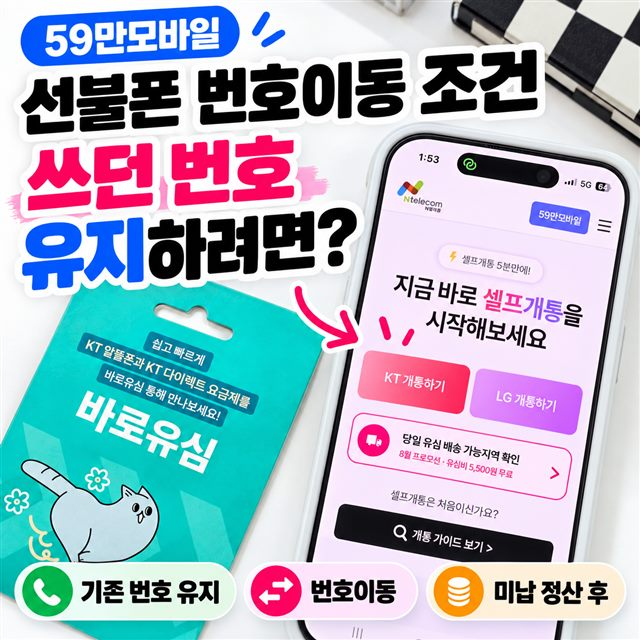
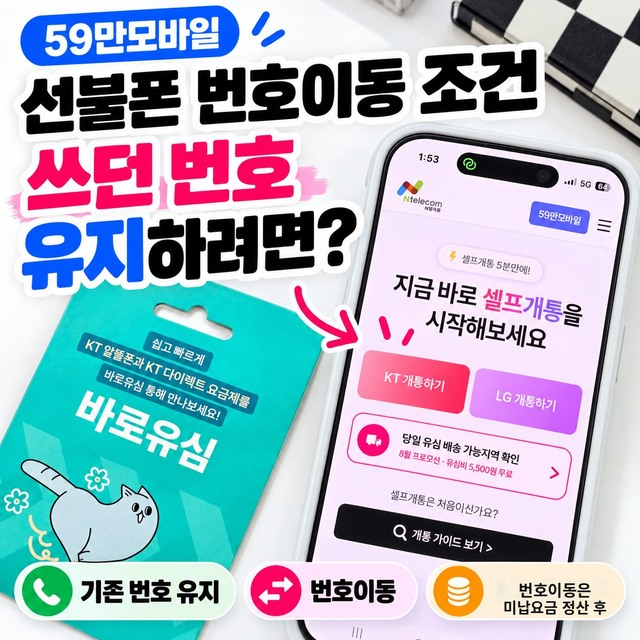
Stage 3: clarify number transfer arrears label in cover 11
* Prepare precise image 11 text replacement

* Stage 3: clarify number transfer arrears condition on cover 11

* Clarify full number-transfer arrears condition in cover alt text

---------

diff --git a/알뜰폰-셀프개통-번호이동/index.html b/알뜰폰-셀프개통-번호이동/index.html
@@ -1,1 +1,1 @@
-<!doctype html><html lang="ko"><head><meta charset="utf-8"><meta name="viewport" content="width=device-width,initial-scale=1"><title>선불폰 번호이동 | 59만모바일</title><meta name="description" content="선불에서 선불로 번호이동은 현재 회선이 정상이고 미납이나 정지 상태가 아닐 때 진행합니다. 번호이동은 월~토 10:00~19:50에 개통할 수 있습니다."><meta name="robots" content="index,follow"><link rel="canonical" href="https://www.59man.shop/알뜰폰-셀프개통-번호이동/"><link rel="icon" href="/favicon.ico" sizes="any"><link rel="icon" type="image/png" sizes="48x48" href="/favicon-48.png"><link rel="icon" type="image/png" sizes="192x192" href="/favicon-192.png"><link rel="apple-touch-icon" href="/apple-touch-icon.png"><meta property="og:type" content="article"><meta property="og:site_name" content="59만모바일"><meta property="og:locale" content="ko_KR"><meta property="og:title" content="선불폰 번호이동"><meta property="og:description" content="선불에서 선불로 번호이동은 현재 회선이 정상이고 미납이나 정지 상태가 아닐 때 진행합니다. 번호이동은 월~토 10:00~19:50에 개통할 수 있습니다."><meta property="og:url" content="https://www.59man.shop/알뜰폰-셀프개통-번호이동/"><meta property="og:image" content="https://www.59man.shop/img/cover-11-number-port-og.jpg"><meta property="og:image:type" content="image/jpeg"><meta property="og:image:width" content="1254"><meta property="og:image:height" content="1254"><meta property="og:image:alt" content="59만모바일 페이지별 대표이미지"><meta name="twitter:card" content="summary"><meta name="twitter:title" content="선불폰 번호이동"><meta name="twitter:description" content="선불에서 선불로 번호이동은 현재 회선이 정상이고 미납이나 정지 상태가 아닐 때 진행합니다. 번호이동은 월~토 10:00~19:50에 개통할 수 있습니다."><meta name="twitter:image" content="https://www.59man.shop/img/cover-11-number-port-og.jpg"><script type="application/ld+json">{"@context":"https://schema.org","@type":"BreadcrumbList","itemListElement":[{"@type":"ListItem","position":1,"name":"홈","item":"https://www.59man.shop/"},{"@type":"ListItem","position":2,"name":"미납·정지 안내","item":"https://www.59man.shop/알뜰폰-셀프개통-번호이동/"}]}</script><link rel="stylesheet" href="/assets/hub.css?v=20261027-readability1"></head><body><a class="skip-link" href="#main-content">본문 바로가기</a><header class="top"><div class="site top-in"><a class="brand" href="/"><img class="brand-mascot" src="/img/icons/brand-mark.svg" width="36" height="36" alt=""><span>59만모바일</span><span class="brand-caption">앤텔레콤 정보 가이드</span></a><nav class="desktop-nav" aria-label="주 메뉴"><a href="/">홈</a><a href="/guide/" aria-current="page">가이드</a><a href="/v4-1/topic/plan-compare/">요금제</a><a href="/편의점-선불유심/">유심 안내</a><a class="nav-apply" href="https://preplan.site/?from=59man_menu">개통 시작하기 <svg viewBox="0 0 24 24" width="18" height="18" fill="none" stroke="currentColor" stroke-width="1.8" aria-hidden="true"><path d="m9 5 7 7-7 7"/></svg></a></nav><details class="top-menu"><summary aria-label="메뉴 열기"><span class="ico-open"><svg viewBox="0 0 24 24" width="24" height="24" fill="none" stroke="currentColor" stroke-width="2" stroke-linecap="round" aria-hidden="true"><path d="M4 7h16M4 12h16M4 17h16"/></svg></span><span class="ico-close"><svg viewBox="0 0 24 24" width="24" height="24" fill="none" stroke="currentColor" stroke-width="2" stroke-linecap="round" aria-hidden="true"><path d="M6 6l12 12M18 6L6 18"/></svg></span></summary><div class="top-menu-panel"><a href="/">홈</a><a href="/guide/">가이드</a><a href="/v4-1/topic/plan-compare/">요금제</a><a href="/편의점-선불유심/">유심 안내</a><a class="menu-cta" href="https://preplan.site/?from=59man_menu">개통 시작하기</a><a class="menu-chat" href="https://pf.kakao.com/_akxmKn/chat" rel="noopener">카카오톡 상담</a></div></details></div></header><main id="main-content" class="site content detail-content"><nav class="gc-tiles detail-categories" aria-label="상황별 가이드"><a class="gc-tile" href="/guide/"><span class="gc-ic"><img src="/img/icons/guides-all.svg" width="32" height="32" alt="" aria-hidden="true"></span><b>전체보기</b><small>26개 가이드</small></a><a class="gc-tile" href="/guide/#check"><span class="gc-ic"><img src="/img/icons/guides-check.svg" width="32" height="32" alt="" aria-hidden="true"></span><b>개통 전 확인</b><small>4개 가이드</small></a><a class="gc-tile" href="/guide/#sim"><span class="gc-ic"><img src="/img/icons/guides-sim.svg" width="32" height="32" alt="" aria-hidden="true"></span><b>유심 준비</b><small>6개 가이드</small></a><a class="gc-tile" href="/guide/#self"><span class="gc-ic"><img src="/img/icons/guides-self.svg" width="32" height="32" alt="" aria-hidden="true"></span><b>셀프개통</b><small>6개 가이드</small></a><a class="gc-tile" href="/guide/#esim"><span class="gc-ic"><img src="/img/icons/guides-esim.svg" width="32" height="32" alt="" aria-hidden="true"></span><b>eSIM</b><small>1개 가이드</small></a><a class="gc-tile is-active" href="/guide/#move"><span class="gc-ic"><img src="/img/icons/guides-move.svg" width="32" height="32" alt="" aria-hidden="true"></span><b>번호이동·미납</b><small>2개 가이드</small></a><a class="gc-tile" href="/guide/#plan"><span class="gc-ic"><img src="/img/icons/guides-plan.svg" width="32" height="32" alt="" aria-hidden="true"></span><b>요금제·충전</b><small>5개 가이드</small></a><a class="gc-tile" href="/guide/#fix"><span class="gc-ic"><img src="/img/icons/guides-fix.svg" width="32" height="32" alt="" aria-hidden="true"></span><b>문제 해결</b><small>2개 가이드</small></a></nav><div class="detail-workspace"><aside class="guide-context" aria-label="같은 주제 가이드"><a class="context-back" href="/guide/#move"><span aria-hidden="true">←</span> 번호이동·미납 목록</a><div class="context-list"><div class="context-heading"><img src="/img/icons/guides-move.svg" width="32" height="32" alt="" aria-hidden="true"><h2>번호이동·미납</h2><span>2개 가이드</span></div><a class="context-card is-selected" href="/알뜰폰-셀프개통-번호이동/" aria-current="page"><span class="context-number">01</span><span><small>번호이동·미납</small><b>선불폰 번호이동</b><span class="context-desc">지금 쓰는 번호를 그대로 옮기려면 어떤 조건이 필요한가요?</span></span><svg viewBox="0 0 24 24" width="18" height="18" fill="none" stroke="currentColor" stroke-width="1.8" aria-hidden="true"><path d="m9 5 7 7-7 7"/></svg></a><a class="context-card" href="/미납정지-선불폰/"><span class="context-number">02</span><span><small>번호이동·미납</small><b>미납·정지 선불폰 개통·번호이동</b><span class="context-desc">미납·연체·정지 상태에서는 어떤 개통 방법이 가능한가요?</span></span><svg viewBox="0 0 24 24" width="18" height="18" fill="none" stroke="currentColor" stroke-width="1.8" aria-hidden="true"><path d="m9 5 7 7-7 7"/></svg></a><a class="context-all" href="/guide/">모든 가이드 찾아보기 <svg viewBox="0 0 24 24" width="18" height="18" fill="none" stroke="currentColor" stroke-width="1.8" aria-hidden="true"><path d="m9 5 7 7-7 7"/></svg></a></div><div class="context-help"><span class="section-kicker">도움이 필요하신가요?</span><b>어느 단계에서 막히셨나요?</b><p>화면을 보내 주시면 확인을 도와드려요.</p><a href="https://pf.kakao.com/_akxmKn/chat" rel="noopener">카카오톡 상담 <svg viewBox="0 0 24 24" width="18" height="18" fill="none" stroke="currentColor" stroke-width="1.8" aria-hidden="true"><path d="m9 5 7 7-7 7"/></svg></a></div></aside><article class="article detail-article"><nav class="crumb-bar" aria-label="경로"><div class="detail-heading-inner"><p class="crumb"><a href="/">홈</a><span class="crumb-sep" aria-hidden="true">›</span><a href="/guide/">가이드</a><span class="crumb-sep" aria-hidden="true">›</span><a href="/guide/#move">번호이동·미납</a><span class="crumb-sep" aria-hidden="true">›</span><span class="crumb-now" aria-current="page">선불폰 번호이동</span></p></div></nav><section class="hero hero-problem"><div class="detail-heading-inner"><div class="eyebrow">미납·정지 안내</div><h1>선불폰 번호이동</h1><p>선불폰 번호이동 안내</p><a class="hero-cta" href="https://preplan.site/">개통 시작하기 <span>→</span></a></div></section><figure class="detail-lead-visual representative-visual" aria-label="선불폰 번호이동 대표이미지"><img src="/img/cover-11-number-port-mobile.jpg" width="640" height="640" alt="선불폰 번호이동 대표이미지" loading="eager" decoding="async"></figure><section><h2>번호이동은 어떤 경우에 되나요?</h2><p>선불에서 선불로 번호이동은 현재 회선이 정상이고 미납이나 정지 상태가 아닐 때 진행합니다.</p></section><section><h2>먼저 현재 회선 상태를 확인해요</h2><p>선불폰 번호이동은 기존 번호를 그대로 가져오는 방법이라 현재 회선 상태부터 확인해야 합니다. 이 조건이 맞다면 번호이동 시간과 유심 또는 단말 준비를 확인하세요.</p><figure class="sm-editorial-figure "><img src="/img/editorial/new-vs-transfer.svg" alt="신규가입은 추가 회선, 번호이동은 기존 번호를 유지하면서 통신망 변경" loading="lazy" decoding="async"><figcaption>59만모바일 제작 · 신규가입과 번호이동의 차이</figcaption></figure></section><section><h2>번호이동 시간은 이래요</h2><p>번호이동은 월~토 10:00~19:50에 개통할 수 있으며, 일요일과 공휴일에는 진행하지 않습니다. 신청을 시작하는 시간을 확인하세요.</p></section><section><h2>번호이동이 안 되는 경우</h2><p>일반 휴대폰이 미납·연체 또는 정지 상태라면 기존 번호를 번호이동으로 가져올 수 없습니다.</p></section><section><h2>번호이동이 안 되면 새 번호로 진행해요</h2><p>통신요금 미납 상태여도 새 번호 신규가입은 진행할 수 있습니다. 기존 번호를 옮길 수 없는 상태라면 번호이동을 반복해서 시도하지 말고 새 번호 신규가입이 가능한지 따로 확인하세요.</p></section><section><h2>조건이 맞는다면 번호이동을 신청해요</h2><p>현재 회선이 정상이고 시간 조건이 맞을 때만 번호이동 신청을 진행하세요.</p></section><section class="decision-card"><span class="section-kicker">먼저 확인할 점</span><h2>현재 상태에 따라 개통 방법이 달라요</h2><div><b>기존 번호 유지 여부</b><span>→</span><b>가능한 신규가입 방법</b><span>→</span><b>유심과 인증 준비</b></div></section><section class="activation-flow" aria-labelledby="activation-flow-title"><div class="section-kicker">셀프개통 순서</div><h2 id="activation-flow-title">준비했다면 5단계로 시작하세요</h2><div class="steps"><div class="step step-link"><b>01</b><div><strong>59만모바일 개통 페이지 접속</strong><p>사용할 망을 고른 뒤 번호이동을 선택합니다. 기존 회선 상태와 접수 가능 시간을 먼저 확인하세요.</p><a href="https://preplan.site/">59만모바일 개통 페이지 접속 →</a></div></div><div class="step"><b>02</b><div><strong>안면 인증 및 본인 인증</strong><p>카카오·토스·PASS 등 간편인증과 안면인증을 진행합니다. 실제 사용할 본인 명의여야 합니다.</p></div></div><div class="step"><b>03</b><div><strong>USIM 정보 입력</strong><p><span class="network-chip">K망</span> 유심카드 19자리 번호 입력 &nbsp; <span class="network-chip lg">L망</span> 모델코드 5자리 + 일련번호 8자리 입력</p></div></div><div class="step"><b>04</b><div><strong>요금제와 기존 번호 확인</strong><p>요금제를 선택하고 기존 번호와 번호이동 사전동의 절차를 확인합니다. 새 번호를 고르는 단계가 아닙니다.</p></div></div><div class="step"><b>05</b><div><strong>개통 완료 → 요금 충전 → 사용 시작</strong><p>플랫폼에서 개통 완료를 확인한 뒤 요금을 충전하세요. 실물 유심은 장착·재부팅 후 통화·문자·데이터를 확인하고, 본사 1899-7700 해피콜은 이후에 받으세요. 태블릿 앱 개통의 담당자 승인 방식과는 다릅니다.</p></div></div></div><a class="primary-cta" href="https://preplan.site/">59만모바일 개통 시작하기 <span>→</span></a></section><nav class="related" aria-label="관련 안내"><h2 class="related-title">함께 보면 좋은 글</h2><a href="/미납정지-선불폰/">미납·정지 선불폰 개통·번호이동</a><a href="/v4-1/topic/plan-compare/">선불폰 요금제 비교</a><a href="/v4-1/topic/plan-396/">앤텔레콤 396 요금제 K망·L망</a><a href="/앤텔레콤-선불폰-개통-방법/">앤텔레콤 셀프개통 방법</a><a href="/앤텔레콤-웹개통/">앤텔레콤 개통시간</a></nav></article></div></main><footer class="footer"><div class="site footer-grid"><div class="footer-brand"><a href="/"><img src="/img/icons/guides-sim.svg" width="32" height="32" alt="" aria-hidden="true"><b>59만모바일</b></a><span>앤텔레콤 정보 가이드</span></div><div class="footer-info"><h2 class="footer-info-title">사업자 · 연락처</h2><p>59만모바일 · 준비할 내용을 확인한 뒤 개통을 시작하세요.</p><p>개통은 <a href="https://preplan.site/">59만모바일 개통 페이지</a>에서 진행됩니다.</p><p>상호 59만모바일 · 대표자 주영돈 · 사업자등록번호 774-56-00506</p><p>주소 (46220) 부산광역시 금정구 금강로 670</p><p>전화 <a href="tel:+821073058253">010-7305-8253</a> · <a href="https://pf.kakao.com/_akxmKn/chat" rel="noopener">카카오톡 상담</a></p></div></div></footer><nav class="bottom-bar" aria-label="빠른 개통"><a class="bottom-bar-main" href="https://preplan.site/">개통 시작하기</a><a class="bottom-bar-sub" href="https://pf.kakao.com/_akxmKn/chat" rel="noopener">카톡 상담</a></nav><script src="/assets/site.js?v=20261027-simplify1" defer></script></body></html>
+<!doctype html><html lang="ko"><head><meta charset="utf-8"><meta name="viewport" content="width=device-width,initial-scale=1"><title>선불폰 번호이동 | 59만모바일</title><meta name="description" content="선불에서 선불로 번호이동은 현재 회선이 정상이고 미납이나 정지 상태가 아닐 때 진행합니다. 번호이동은 월~토 10:00~19:50에 개통할 수 있습니다."><meta name="robots" content="index,follow"><link rel="canonical" href="https://www.59man.shop/알뜰폰-셀프개통-번호이동/"><link rel="icon" href="/favicon.ico" sizes="any"><link rel="icon" type="image/png" sizes="48x48" href="/favicon-48.png"><link rel="icon" type="image/png" sizes="192x192" href="/favicon-192.png"><link rel="apple-touch-icon" href="/apple-touch-icon.png"><meta property="og:type" content="article"><meta property="og:site_name" content="59만모바일"><meta property="og:locale" content="ko_KR"><meta property="og:title" content="선불폰 번호이동"><meta property="og:description" content="선불에서 선불로 번호이동은 현재 회선이 정상이고 미납이나 정지 상태가 아닐 때 진행합니다. 번호이동은 월~토 10:00~19:50에 개통할 수 있습니다."><meta property="og:url" content="https://www.59man.shop/알뜰폰-셀프개통-번호이동/"><meta property="og:image" content="https://www.59man.shop/img/cover-11-number-port-og.jpg"><meta property="og:image:type" content="image/jpeg"><meta property="og:image:width" content="1254"><meta property="og:image:height" content="1254"><meta property="og:image:alt" content="59만모바일 페이지별 대표이미지"><meta name="twitter:card" content="summary"><meta name="twitter:title" content="선불폰 번호이동"><meta name="twitter:description" content="선불에서 선불로 번호이동은 현재 회선이 정상이고 미납이나 정지 상태가 아닐 때 진행합니다. 번호이동은 월~토 10:00~19:50에 개통할 수 있습니다."><meta name="twitter:image" content="https://www.59man.shop/img/cover-11-number-port-og.jpg"><script type="application/ld+json">{"@context":"https://schema.org","@type":"BreadcrumbList","itemListElement":[{"@type":"ListItem","position":1,"name":"홈","item":"https://www.59man.shop/"},{"@type":"ListItem","position":2,"name":"미납·정지 안내","item":"https://www.59man.shop/알뜰폰-셀프개통-번호이동/"}]}</script><link rel="stylesheet" href="/assets/hub.css?v=20261027-readability1"></head><body><a class="skip-link" href="#main-content">본문 바로가기</a><header class="top"><div class="site top-in"><a class="brand" href="/"><img class="brand-mascot" src="/img/icons/brand-mark.svg" width="36" height="36" alt=""><span>59만모바일</span><span class="brand-caption">앤텔레콤 정보 가이드</span></a><nav class="desktop-nav" aria-label="주 메뉴"><a href="/">홈</a><a href="/guide/" aria-current="page">가이드</a><a href="/v4-1/topic/plan-compare/">요금제</a><a href="/편의점-선불유심/">유심 안내</a><a class="nav-apply" href="https://preplan.site/?from=59man_menu">개통 시작하기 <svg viewBox="0 0 24 24" width="18" height="18" fill="none" stroke="currentColor" stroke-width="1.8" aria-hidden="true"><path d="m9 5 7 7-7 7"/></svg></a></nav><details class="top-menu"><summary aria-label="메뉴 열기"><span class="ico-open"><svg viewBox="0 0 24 24" width="24" height="24" fill="none" stroke="currentColor" stroke-width="2" stroke-linecap="round" aria-hidden="true"><path d="M4 7h16M4 12h16M4 17h16"/></svg></span><span class="ico-close"><svg viewBox="0 0 24 24" width="24" height="24" fill="none" stroke="currentColor" stroke-width="2" stroke-linecap="round" aria-hidden="true"><path d="M6 6l12 12M18 6L6 18"/></svg></span></summary><div class="top-menu-panel"><a href="/">홈</a><a href="/guide/">가이드</a><a href="/v4-1/topic/plan-compare/">요금제</a><a href="/편의점-선불유심/">유심 안내</a><a class="menu-cta" href="https://preplan.site/?from=59man_menu">개통 시작하기</a><a class="menu-chat" href="https://pf.kakao.com/_akxmKn/chat" rel="noopener">카카오톡 상담</a></div></details></div></header><main id="main-content" class="site content detail-content"><nav class="gc-tiles detail-categories" aria-label="상황별 가이드"><a class="gc-tile" href="/guide/"><span class="gc-ic"><img src="/img/icons/guides-all.svg" width="32" height="32" alt="" aria-hidden="true"></span><b>전체보기</b><small>26개 가이드</small></a><a class="gc-tile" href="/guide/#check"><span class="gc-ic"><img src="/img/icons/guides-check.svg" width="32" height="32" alt="" aria-hidden="true"></span><b>개통 전 확인</b><small>4개 가이드</small></a><a class="gc-tile" href="/guide/#sim"><span class="gc-ic"><img src="/img/icons/guides-sim.svg" width="32" height="32" alt="" aria-hidden="true"></span><b>유심 준비</b><small>6개 가이드</small></a><a class="gc-tile" href="/guide/#self"><span class="gc-ic"><img src="/img/icons/guides-self.svg" width="32" height="32" alt="" aria-hidden="true"></span><b>셀프개통</b><small>6개 가이드</small></a><a class="gc-tile" href="/guide/#esim"><span class="gc-ic"><img src="/img/icons/guides-esim.svg" width="32" height="32" alt="" aria-hidden="true"></span><b>eSIM</b><small>1개 가이드</small></a><a class="gc-tile is-active" href="/guide/#move"><span class="gc-ic"><img src="/img/icons/guides-move.svg" width="32" height="32" alt="" aria-hidden="true"></span><b>번호이동·미납</b><small>2개 가이드</small></a><a class="gc-tile" href="/guide/#plan"><span class="gc-ic"><img src="/img/icons/guides-plan.svg" width="32" height="32" alt="" aria-hidden="true"></span><b>요금제·충전</b><small>5개 가이드</small></a><a class="gc-tile" href="/guide/#fix"><span class="gc-ic"><img src="/img/icons/guides-fix.svg" width="32" height="32" alt="" aria-hidden="true"></span><b>문제 해결</b><small>2개 가이드</small></a></nav><div class="detail-workspace"><aside class="guide-context" aria-label="같은 주제 가이드"><a class="context-back" href="/guide/#move"><span aria-hidden="true">←</span> 번호이동·미납 목록</a><div class="context-list"><div class="context-heading"><img src="/img/icons/guides-move.svg" width="32" height="32" alt="" aria-hidden="true"><h2>번호이동·미납</h2><span>2개 가이드</span></div><a class="context-card is-selected" href="/알뜰폰-셀프개통-번호이동/" aria-current="page"><span class="context-number">01</span><span><small>번호이동·미납</small><b>선불폰 번호이동</b><span class="context-desc">지금 쓰는 번호를 그대로 옮기려면 어떤 조건이 필요한가요?</span></span><svg viewBox="0 0 24 24" width="18" height="18" fill="none" stroke="currentColor" stroke-width="1.8" aria-hidden="true"><path d="m9 5 7 7-7 7"/></svg></a><a class="context-card" href="/미납정지-선불폰/"><span class="context-number">02</span><span><small>번호이동·미납</small><b>미납·정지 선불폰 개통·번호이동</b><span class="context-desc">미납·연체·정지 상태에서는 어떤 개통 방법이 가능한가요?</span></span><svg viewBox="0 0 24 24" width="18" height="18" fill="none" stroke="currentColor" stroke-width="1.8" aria-hidden="true"><path d="m9 5 7 7-7 7"/></svg></a><a class="context-all" href="/guide/">모든 가이드 찾아보기 <svg viewBox="0 0 24 24" width="18" height="18" fill="none" stroke="currentColor" stroke-width="1.8" aria-hidden="true"><path d="m9 5 7 7-7 7"/></svg></a></div><div class="context-help"><span class="section-kicker">도움이 필요하신가요?</span><b>어느 단계에서 막히셨나요?</b><p>화면을 보내 주시면 확인을 도와드려요.</p><a href="https://pf.kakao.com/_akxmKn/chat" rel="noopener">카카오톡 상담 <svg viewBox="0 0 24 24" width="18" height="18" fill="none" stroke="currentColor" stroke-width="1.8" aria-hidden="true"><path d="m9 5 7 7-7 7"/></svg></a></div></aside><article class="article detail-article"><nav class="crumb-bar" aria-label="경로"><div class="detail-heading-inner"><p class="crumb"><a href="/">홈</a><span class="crumb-sep" aria-hidden="true">›</span><a href="/guide/">가이드</a><span class="crumb-sep" aria-hidden="true">›</span><a href="/guide/#move">번호이동·미납</a><span class="crumb-sep" aria-hidden="true">›</span><span class="crumb-now" aria-current="page">선불폰 번호이동</span></p></div></nav><section class="hero hero-problem"><div class="detail-heading-inner"><div class="eyebrow">미납·정지 안내</div><h1>선불폰 번호이동</h1><p>선불폰 번호이동 안내</p><a class="hero-cta" href="https://preplan.site/">개통 시작하기 <span>→</span></a></div></section><figure class="detail-lead-visual representative-visual" aria-label="선불폰 번호이동 대표이미지"><img src="/img/cover-11-number-port-mobile.jpg" width="640" height="640" alt="기존 번호를 유지하는 번호이동은 미납요금 정산 후 가능하다는 내용의 선불폰 번호이동 조건 대표이미지" loading="eager" decoding="async"></figure><section><h2>번호이동은 어떤 경우에 되나요?</h2><p>선불에서 선불로 번호이동은 현재 회선이 정상이고 미납이나 정지 상태가 아닐 때 진행합니다.</p></section><section><h2>먼저 현재 회선 상태를 확인해요</h2><p>선불폰 번호이동은 기존 번호를 그대로 가져오는 방법이라 현재 회선 상태부터 확인해야 합니다. 이 조건이 맞다면 번호이동 시간과 유심 또는 단말 준비를 확인하세요.</p><figure class="sm-editorial-figure "><img src="/img/editorial/new-vs-transfer.svg" alt="신규가입은 추가 회선, 번호이동은 기존 번호를 유지하면서 통신망 변경" loading="lazy" decoding="async"><figcaption>59만모바일 제작 · 신규가입과 번호이동의 차이</figcaption></figure></section><section><h2>번호이동 시간은 이래요</h2><p>번호이동은 월~토 10:00~19:50에 개통할 수 있으며, 일요일과 공휴일에는 진행하지 않습니다. 신청을 시작하는 시간을 확인하세요.</p></section><section><h2>번호이동이 안 되는 경우</h2><p>일반 휴대폰이 미납·연체 또는 정지 상태라면 기존 번호를 번호이동으로 가져올 수 없습니다.</p></section><section><h2>번호이동이 안 되면 새 번호로 진행해요</h2><p>통신요금 미납 상태여도 새 번호 신규가입은 진행할 수 있습니다. 기존 번호를 옮길 수 없는 상태라면 번호이동을 반복해서 시도하지 말고 새 번호 신규가입이 가능한지 따로 확인하세요.</p></section><section><h2>조건이 맞는다면 번호이동을 신청해요</h2><p>현재 회선이 정상이고 시간 조건이 맞을 때만 번호이동 신청을 진행하세요.</p></section><section class="decision-card"><span class="section-kicker">먼저 확인할 점</span><h2>현재 상태에 따라 개통 방법이 달라요</h2><div><b>기존 번호 유지 여부</b><span>→</span><b>가능한 신규가입 방법</b><span>→</span><b>유심과 인증 준비</b></div></section><section class="activation-flow" aria-labelledby="activation-flow-title"><div class="section-kicker">셀프개통 순서</div><h2 id="activation-flow-title">준비했다면 5단계로 시작하세요</h2><div class="steps"><div class="step step-link"><b>01</b><div><strong>59만모바일 개통 페이지 접속</strong><p>사용할 망을 고른 뒤 번호이동을 선택합니다. 기존 회선 상태와 접수 가능 시간을 먼저 확인하세요.</p><a href="https://preplan.site/">59만모바일 개통 페이지 접속 →</a></div></div><div class="step"><b>02</b><div><strong>안면 인증 및 본인 인증</strong><p>카카오·토스·PASS 등 간편인증과 안면인증을 진행합니다. 실제 사용할 본인 명의여야 합니다.</p></div></div><div class="step"><b>03</b><div><strong>USIM 정보 입력</strong><p><span class="network-chip">K망</span> 유심카드 19자리 번호 입력 &nbsp; <span class="network-chip lg">L망</span> 모델코드 5자리 + 일련번호 8자리 입력</p></div></div><div class="step"><b>04</b><div><strong>요금제와 기존 번호 확인</strong><p>요금제를 선택하고 기존 번호와 번호이동 사전동의 절차를 확인합니다. 새 번호를 고르는 단계가 아닙니다.</p></div></div><div class="step"><b>05</b><div><strong>개통 완료 → 요금 충전 → 사용 시작</strong><p>플랫폼에서 개통 완료를 확인한 뒤 요금을 충전하세요. 실물 유심은 장착·재부팅 후 통화·문자·데이터를 확인하고, 본사 1899-7700 해피콜은 이후에 받으세요. 태블릿 앱 개통의 담당자 승인 방식과는 다릅니다.</p></div></div></div><a class="primary-cta" href="https://preplan.site/">59만모바일 개통 시작하기 <span>→</span></a></section><nav class="related" aria-label="관련 안내"><h2 class="related-title">함께 보면 좋은 글</h2><a href="/미납정지-선불폰/">미납·정지 선불폰 개통·번호이동</a><a href="/v4-1/topic/plan-compare/">선불폰 요금제 비교</a><a href="/v4-1/topic/plan-396/">앤텔레콤 396 요금제 K망·L망</a><a href="/앤텔레콤-선불폰-개통-방법/">앤텔레콤 셀프개통 방법</a><a href="/앤텔레콤-웹개통/">앤텔레콤 개통시간</a></nav></article></div></main><footer class="footer"><div class="site footer-grid"><div class="footer-brand"><a href="/"><img src="/img/icons/guides-sim.svg" width="32" height="32" alt="" aria-hidden="true"><b>59만모바일</b></a><span>앤텔레콤 정보 가이드</span></div><div class="footer-info"><h2 class="footer-info-title">사업자 · 연락처</h2><p>59만모바일 · 준비할 내용을 확인한 뒤 개통을 시작하세요.</p><p>개통은 <a href="https://preplan.site/">59만모바일 개통 페이지</a>에서 진행됩니다.</p><p>상호 59만모바일 · 대표자 주영돈 · 사업자등록번호 774-56-00506</p><p>주소 (46220) 부산광역시 금정구 금강로 670</p><p>전화 <a href="tel:+821073058253">010-7305-8253</a> · <a href="https://pf.kakao.com/_akxmKn/chat" rel="noopener">카카오톡 상담</a></p></div></div></footer><nav class="bottom-bar" aria-label="빠른 개통"><a class="bottom-bar-main" href="https://preplan.site/">개통 시작하기</a><a class="bottom-bar-sub" href="https://pf.kakao.com/_akxmKn/chat" rel="noopener">카톡 상담</a></nav><script src="/assets/site.js?v=20261027-simplify1" defer></script></body></html>
